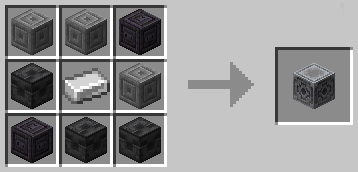
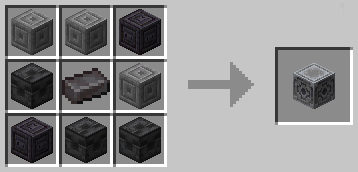
added stonecutting recipes

Changed region(s): [[0.1536, 0.3779, 0.3073, 0.6105]]

diff --git a/RECIPE.md b/RECIPE.md
@@ -90,7 +90,7 @@
 
 - New Recipe for Boat with Chest (allows stacking)
 - Input is 5 Wooden Planks and 1 Chest
-  
+
 ### Minecart with Workbench
 <img src="https://github.com/mygazthehealer/chocos-crafting-tweaks/blob/main/other/minecart_workbench.gif?raw=true">
 
@@ -135,7 +135,7 @@
 ### Lodestone
 <img src="https://github.com/mygazthehealer/chocos-crafting-tweaks/blob/main/other/lodestone.png?raw=true">
 
-- Input is 8 Chiseled Stone Bricks/Chiseled Deepslate/Chiseled Polished Blackstone and 1 Iron Ingot (instead of 8 Chiseled Stone Bricks and 1 Netherrite Ingot)
+- Input is 8 Chiseled Stone Bricks/Chiseled Deepslate/Chiseled Polished Blackstone and 1 Netherite Ingot (instead of 8 Chiseled Stone Bricks and 1 Netherite Ingot)
 <details>
 
 - Created "chiseled_stones" tag for Chiseled Stone Bricks, Chiseled Deepslate, Chiseled Polished Blackstone</details>
@@ -360,14 +360,9 @@
 
 ### Dark Prismarine
 <img src="https://github.com/mygazthehealer/chocos-crafting-tweaks/blob/main/other/prismarine_dark.png?raw=true">
-<img src="https://github.com/mygazthehealer/chocos-crafting-tweaks/blob/main/other/prismarine_dark_alt.gif?raw=true">
 
 - New Recipes for Dark Prismarine
-- Input is 8 Prismarine Shards and 1 Ink Sac for 1 Dark Prismarine (Bedrock Edition recipe)
-- Input is 8 Prismarine and 1 Black Dye/Ink Sac for 4 Dark Prismarine
-<details>
-
-- Created "black_dyes" tag for Black Dye, Ink Sac</details>
+- Input is 8 Prismarine and 1 Black Dye for 4 Dark Prismarine
 
 ### Blaze Powder
 <img src="https://github.com/mygazthehealer/chocos-crafting-tweaks/blob/main/other/blaze_powder.png?raw=true">
@@ -478,4 +473,21 @@
 <img src="https://github.com/mygazthehealer/chocos-crafting-tweaks/blob/main/other/netherite_tools.gif?raw=true">
 <img src="https://github.com/mygazthehealer/chocos-crafting-tweaks/blob/main/other/netherite_armour.gif?raw=true">
 
-- Netherite Gear can be smithed from Diamond Gear and Netherite Ingot
+- Netherite Gear can be Smithed from Diamond Gear and Netherite Ingot
+
+## Stonecutting
+### Deepslate
+
+- Deepslate can be Stonecut into Chiseled Deepslate, Deepslate Bricks (Stairs/2 Slabs/Walls), Deepslate Tiles (Stairs/2 Slabs/Walls), Polished Deepslate (Stairs/Slabs/Walls)
+
+### Stone
+
+- Stone can be Stonecut into 4 Stone Buttons, 2 Stone Pressure Plate
+
+### Blackstone
+
+- Blackstone/Polished Blackstone can be Stonecut into 4 Polished Blackstone Buttons, 2 Polished Blackstone Pressure Plate
+
+### Bamboo
+
+- Bamboo Mosaic can be stonecut into 1 Bamboo Mosaic Stairs, 2 Bamboo Mosaic Slabs
